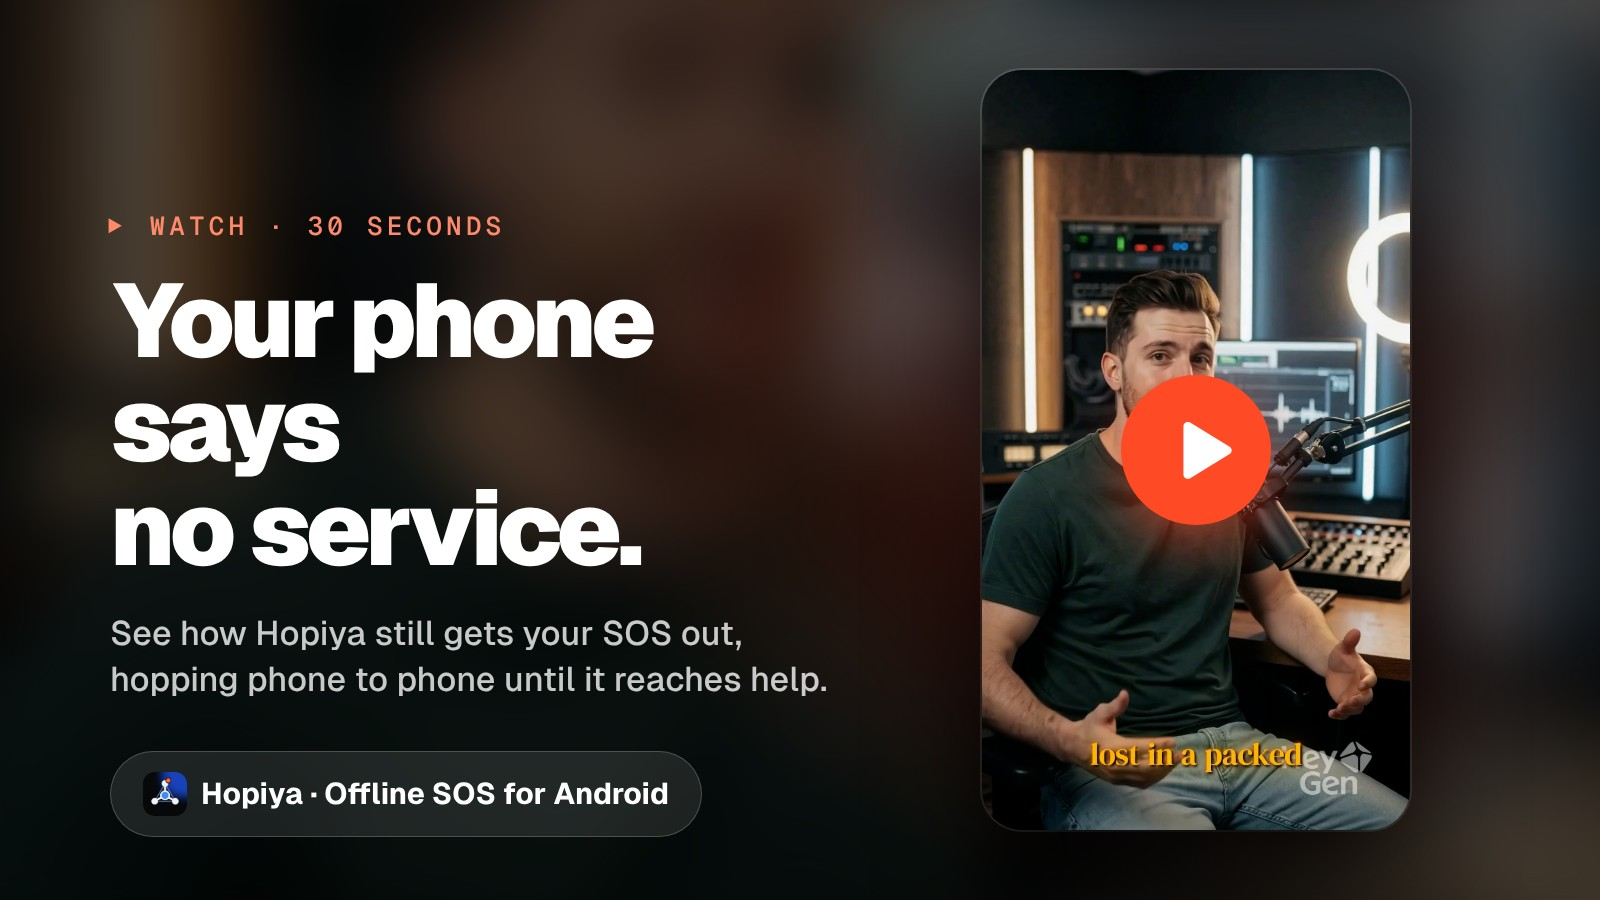
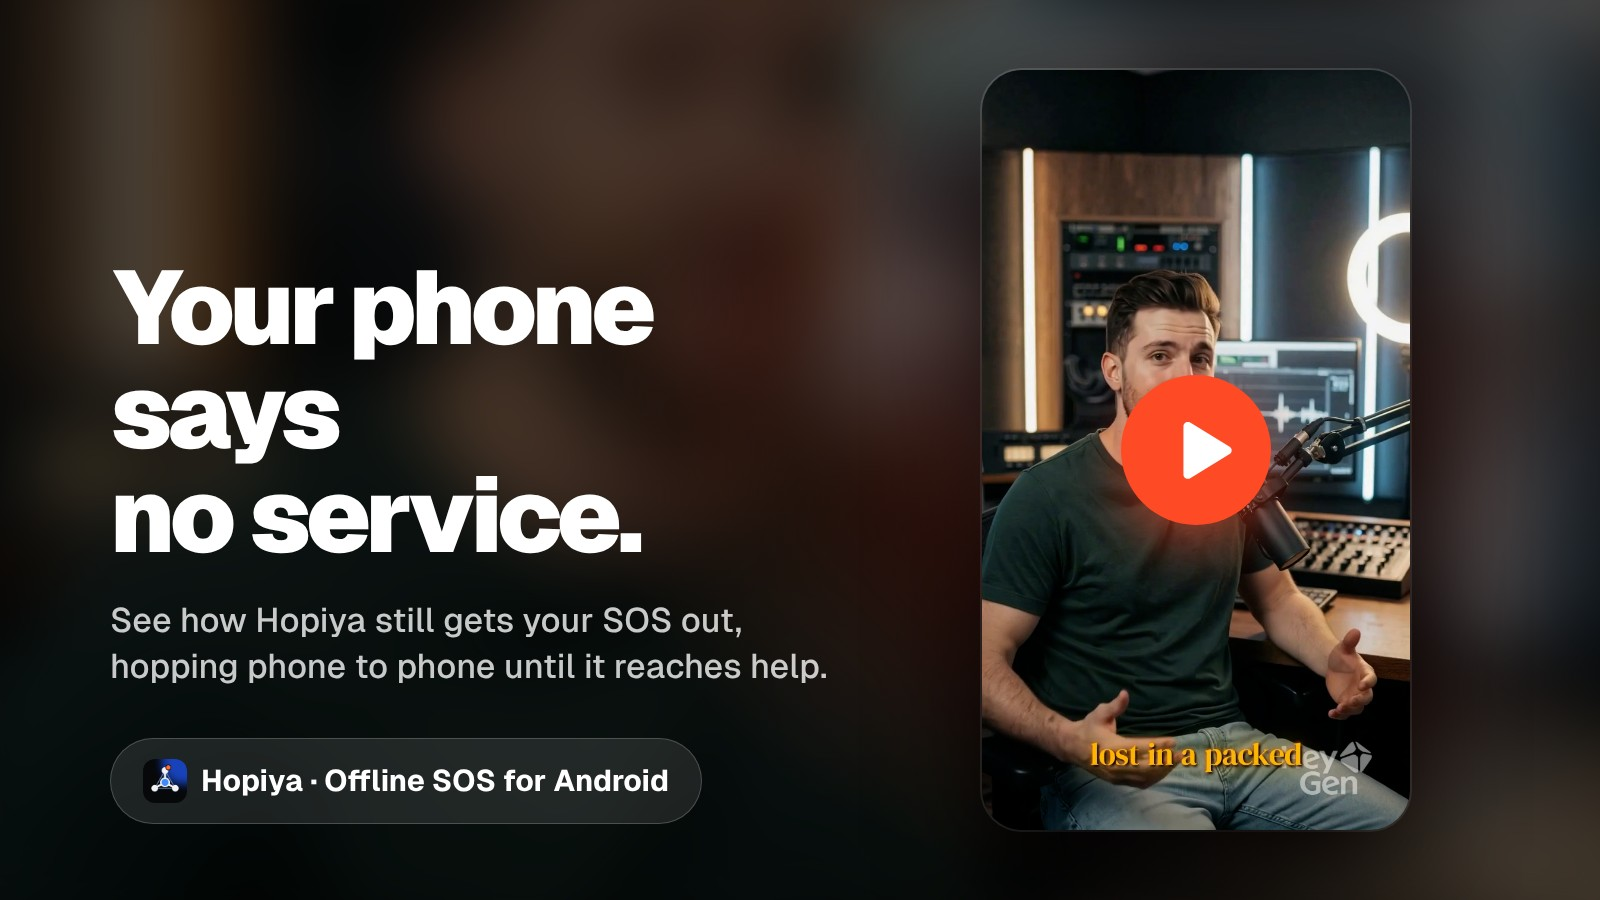
Video section: drop the '30 seconds' label
Claude-Session: https://claude.ai/code/session_016XXAbbhm1zB4Pi6PWqep1A

Changed region(s): [[0.0625, 0.4356, 0.5312, 0.7778], [0.0625, 0.8089, 0.4375, 0.9333], [0.0625, 0.2178, 0.4062, 0.4356]]

diff --git a/README.md b/README.md
@@ -14,7 +14,7 @@ An offline SOS and messaging app for Android that hops phone to phone — no sig
 </p>
 
 <p align="center">
-  <a href="#%EF%B8%8F-watch-hopiya-in-30-seconds">Video</a> ·
+  <a href="#%EF%B8%8F-see-hopiya-in-action">Video</a> ·
   <a href="#-why-hopiya">Why</a> ·
   <a href="#-how-a-message-finds-help">How it works</a> ·
   <a href="#-features">Features</a> ·
@@ -28,12 +28,12 @@ An offline SOS and messaging app for Android that hops phone to phone — no sig
 
 > **This repository is a showcase.** It contains the description, screenshots, artwork and the downloadable app — **not the source code**. The complete source code is sold separately at **[nithindevasia.com](https://www.nithindevasia.com/innovations.php)**.
 
-## ▶ Watch: Hopiya in 30 seconds
+## ▶ See Hopiya in action
 
 <p align="center">
-  <a href="media/hopiya-promo.mp4"><img src="media/video-poster.jpg" alt="Play the 30-second Hopiya video" width="100%"></a>
+  <a href="media/hopiya-promo.mp4"><img src="media/video-poster.jpg" alt="Play the Hopiya video" width="100%"></a>
 </p>
-<p align="center"><sub>Click the image to play the video · <a href="media/hopiya-promo.mp4">hopiya-promo.mp4</a> (vertical, 32 s, AI-generated presenter)</sub></p>
+<p align="center"><sub>Click the image to play the video · <a href="media/hopiya-promo.mp4">hopiya-promo.mp4</a> (AI-generated presenter)</sub></p>
 
 ---
 
